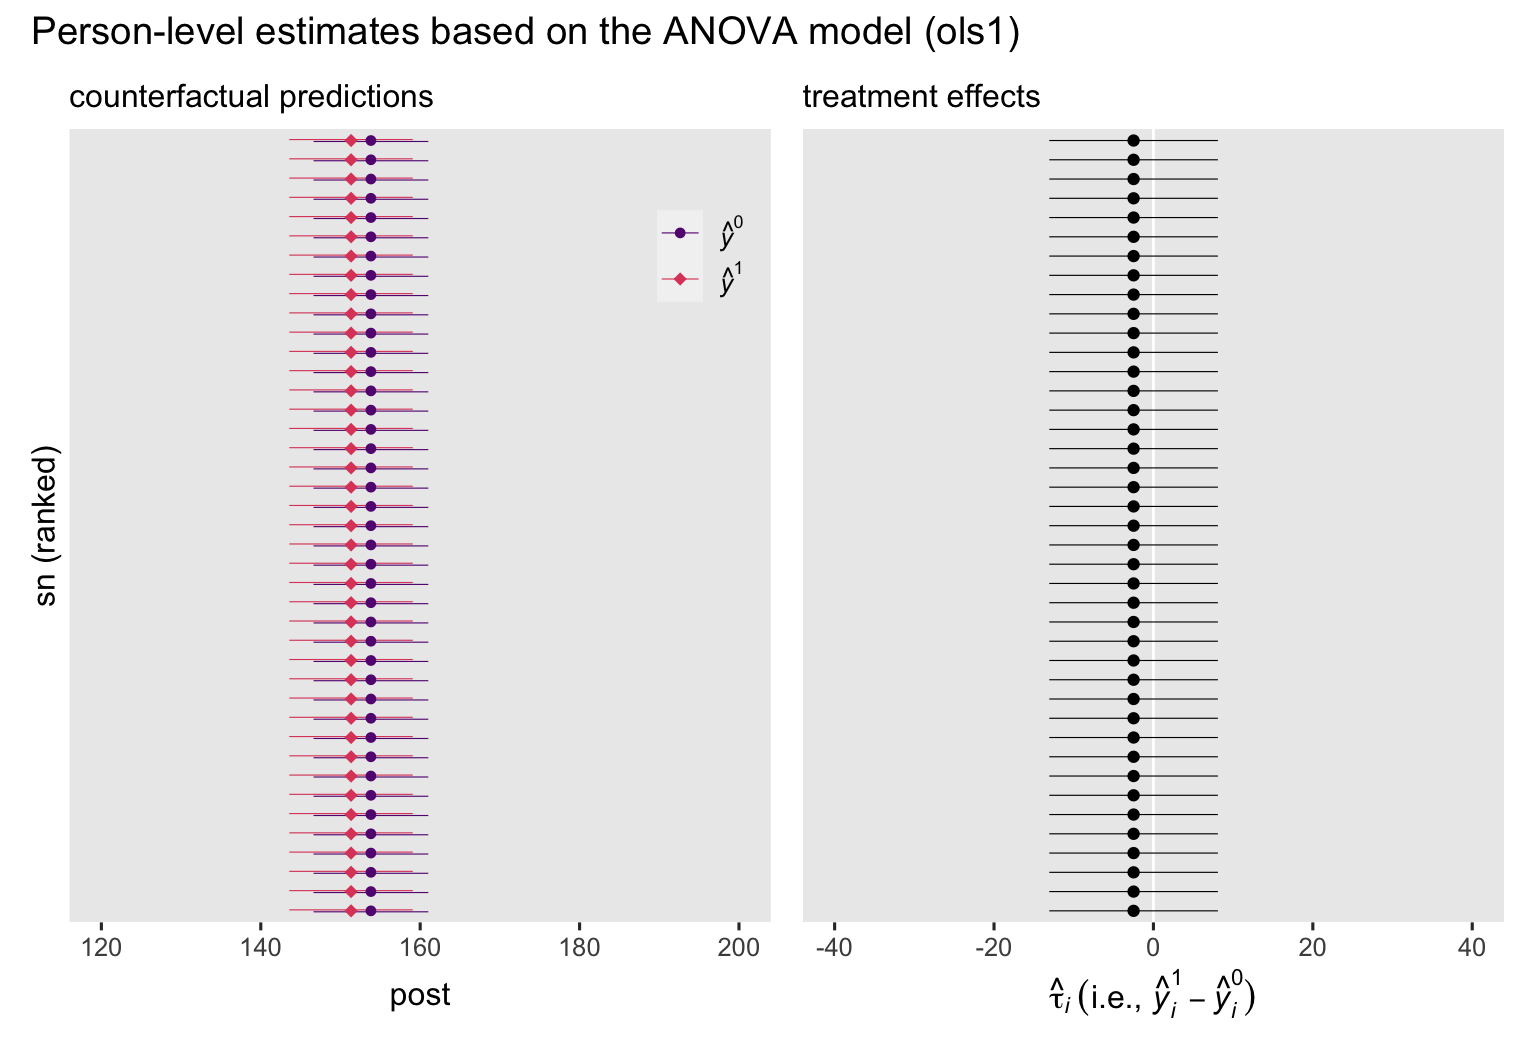
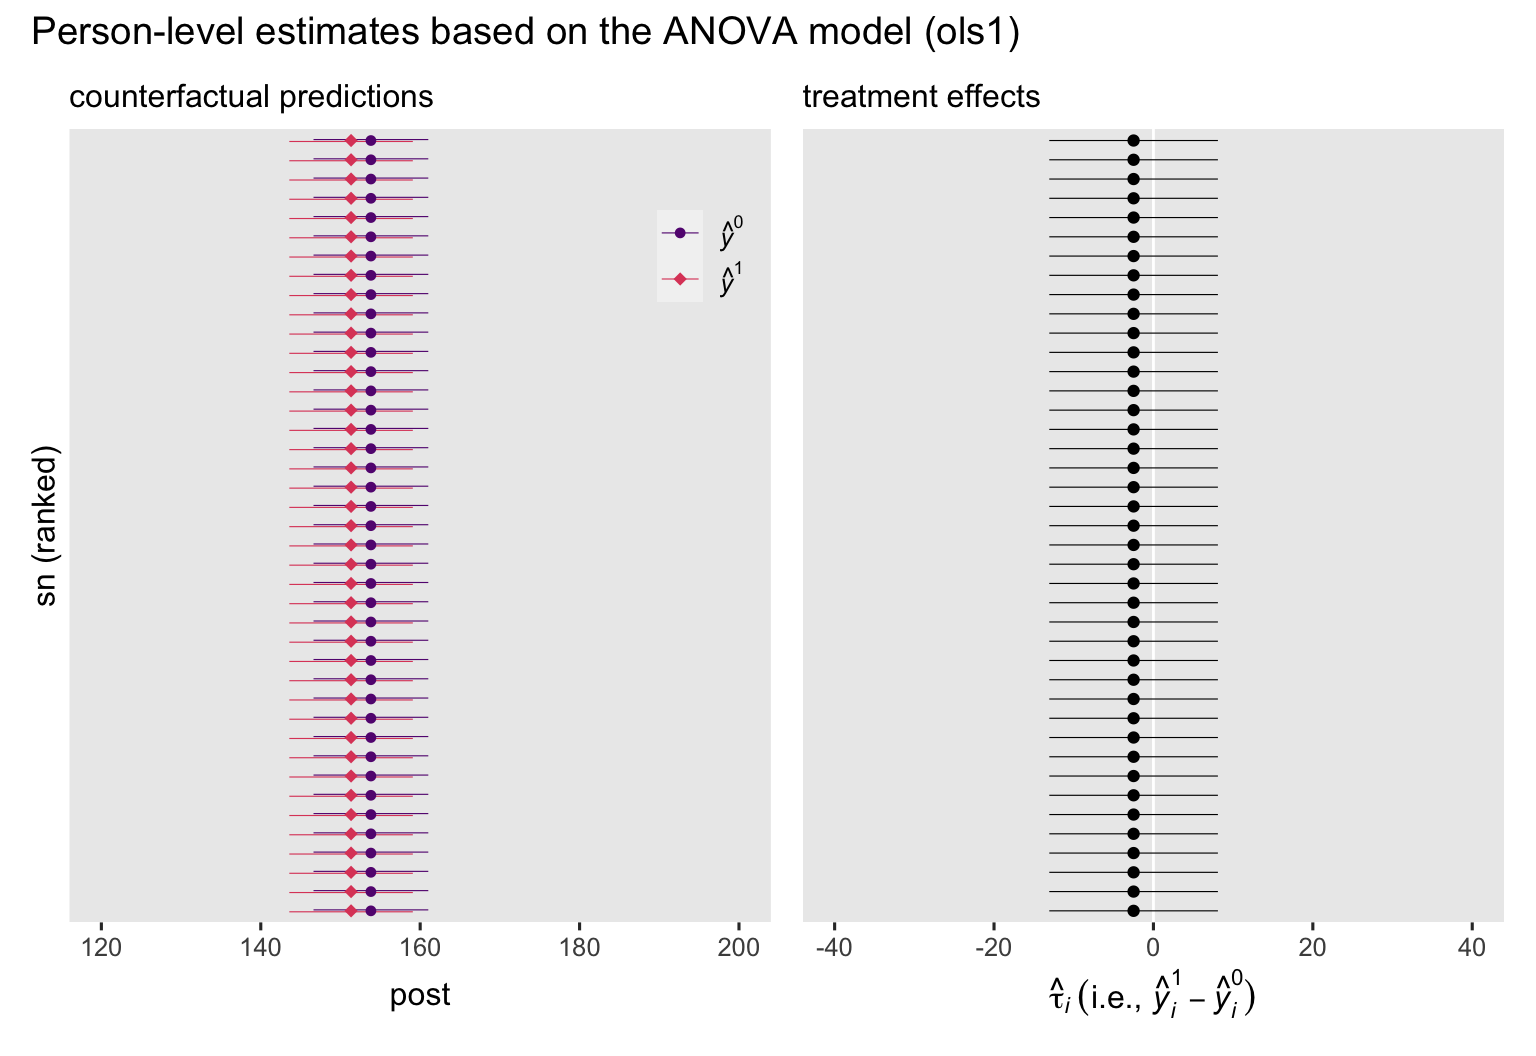
width = -0.2

Changed region(s): [[0.1875, 0.125, 0.2812, 0.875]]

diff --git a/content/blog/2023-02-06-causal-inference-with-potential-outcomes-bootcamp/index.md b/content/blog/2023-02-06-causal-inference-with-potential-outcomes-bootcamp/index.md
@@ -389,14 +389,14 @@ p1 <- predictions(ols1, newdata = nd, by = c("sn", "experimental")) %>%
   
   ggplot(aes(x = estimate, y = reorder(sn, estimate), color = y)) +
   geom_interval(aes(xmin = conf.low, xmax = conf.high),
-                position = position_dodge(width = 0.2),
+                position = position_dodge(width = -0.2),
                 size = 1/5) +
   geom_point(aes(shape = y),
              size = 2) +
   scale_color_viridis_d(NULL, option = "A", begin = .3, end = .6,
                         labels = scales::parse_format()) +
   scale_shape_manual(NULL, values = c(20, 18),
-              labels = scales::parse_format()) +
+                     labels = scales::parse_format()) +
   scale_y_discrete(breaks = NULL) +
   labs(subtitle = "counterfactual predictions",
        x = "post",
@@ -412,7 +412,6 @@ p2 <- comparisons(ols1, variables = list(experimental = 0:1), by = "sn") %>%
   ggplot(aes(x = estimate, y = reorder(sn, estimate))) +
   geom_vline(xintercept = 0, color = "white") +
   geom_interval(aes(xmin = conf.low, xmax = conf.high),
-                position = position_dodge(width = 0.25),
                 size = 1/5) +
   geom_point() +
   scale_y_discrete(breaks = NULL) +
@@ -687,15 +686,15 @@ p3 <- predictions(ols2, newdata = nd, by = c("sn", "experimental", "prec")) %>%
   mutate(y = ifelse(experimental == 0, "hat(italic(y))^0", "hat(italic(y))^1")) %>% 
   
   ggplot(aes(x = estimate, y = reorder(sn, estimate))) +
-  ggdist::geom_interval(aes(xmin = conf.low, xmax = conf.high, color = y),
-                        position = position_dodge(width = 0.2),
-                        size = 1/5) +
+  geom_interval(aes(xmin = conf.low, xmax = conf.high, color = y),
+                position = position_dodge(width = -0.2),
+                size = 1/5) +
   geom_point(aes(color = y, shape = y),
              size = 2) +
   scale_color_viridis_d(NULL, option = "A", begin = .3, end = .6,
                         labels = scales::parse_format()) +
   scale_shape_manual(NULL, values = c(20, 18),
-              labels = scales::parse_format()) +
+                     labels = scales::parse_format()) +
   scale_y_discrete(breaks = NULL) +
   labs(subtitle = "counterfactual predictions",
        x = "post",
@@ -710,9 +709,8 @@ p4 <- comparisons(ols2, variables = list(experimental = 0:1), by = "sn") %>%
   
   ggplot(aes(x = estimate, y = reorder(sn, estimate))) +
   geom_vline(xintercept = 0, color = "white") +
-  ggdist::geom_interval(aes(xmin = conf.low, xmax = conf.high),
-                        position = position_dodge(width = 0.25),
-                        size = 1/5) +
+  geom_interval(aes(xmin = conf.low, xmax = conf.high),
+                size = 1/5) +
   geom_point() +
   scale_y_discrete(breaks = NULL) +
   labs(subtitle = "treatment effects",
@@ -824,7 +822,7 @@ sessionInfo()
 
 <div id="ref-arelBundock2023CausalInference" class="csl-entry">
 
-Arel-Bundock, V. (2023, February 3). *Causal inference with the parametric g-Formula*. <https://vincentarelbundock.github.io/marginaleffects/articles/gformula.html>
+Arel-Bundock, V. (2023). *Causal inference with the parametric g-Formula*. <https://vincentarelbundock.github.io/marginaleffects/articles/gformula.html>
 
 </div>
 
